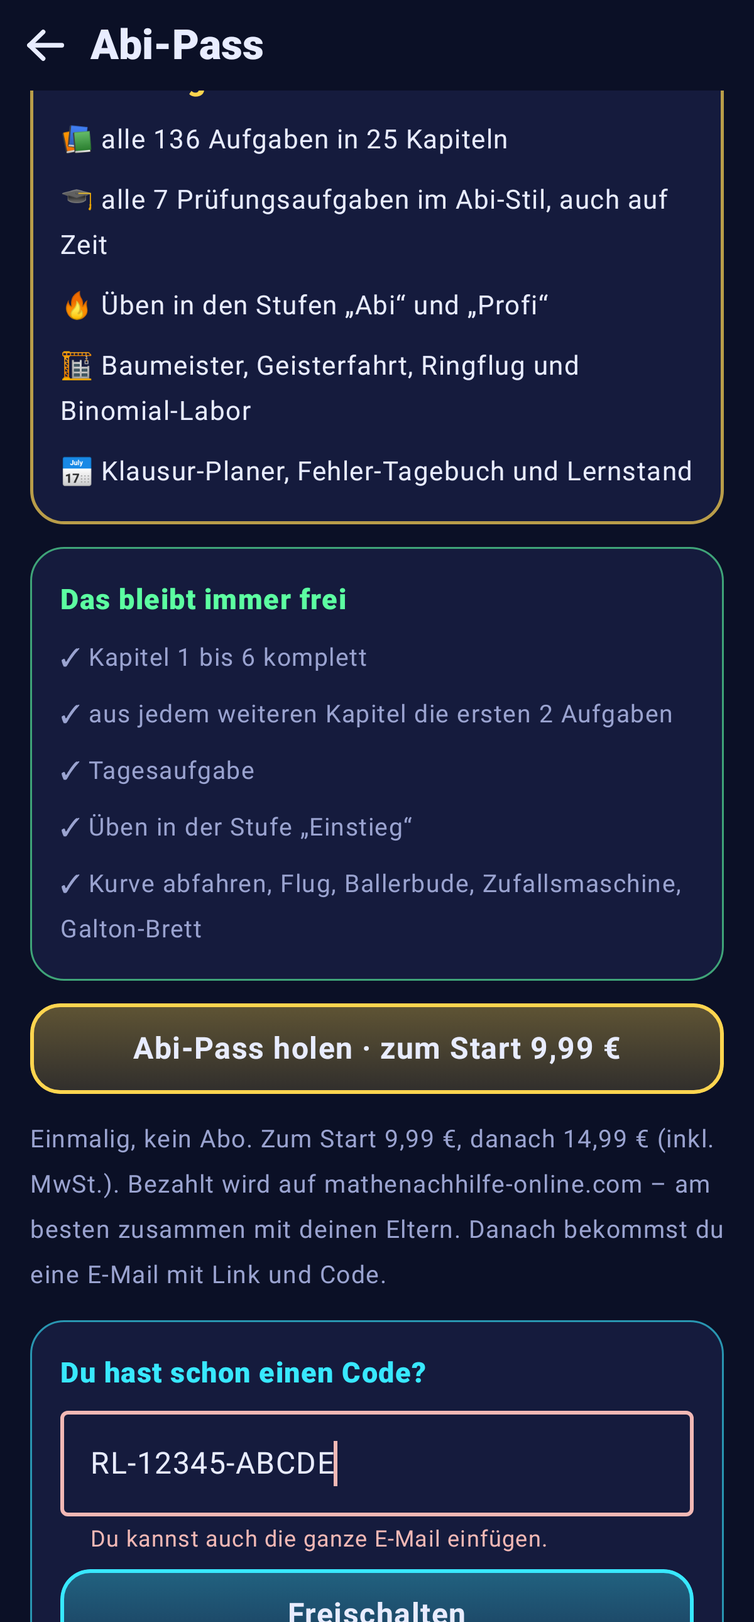
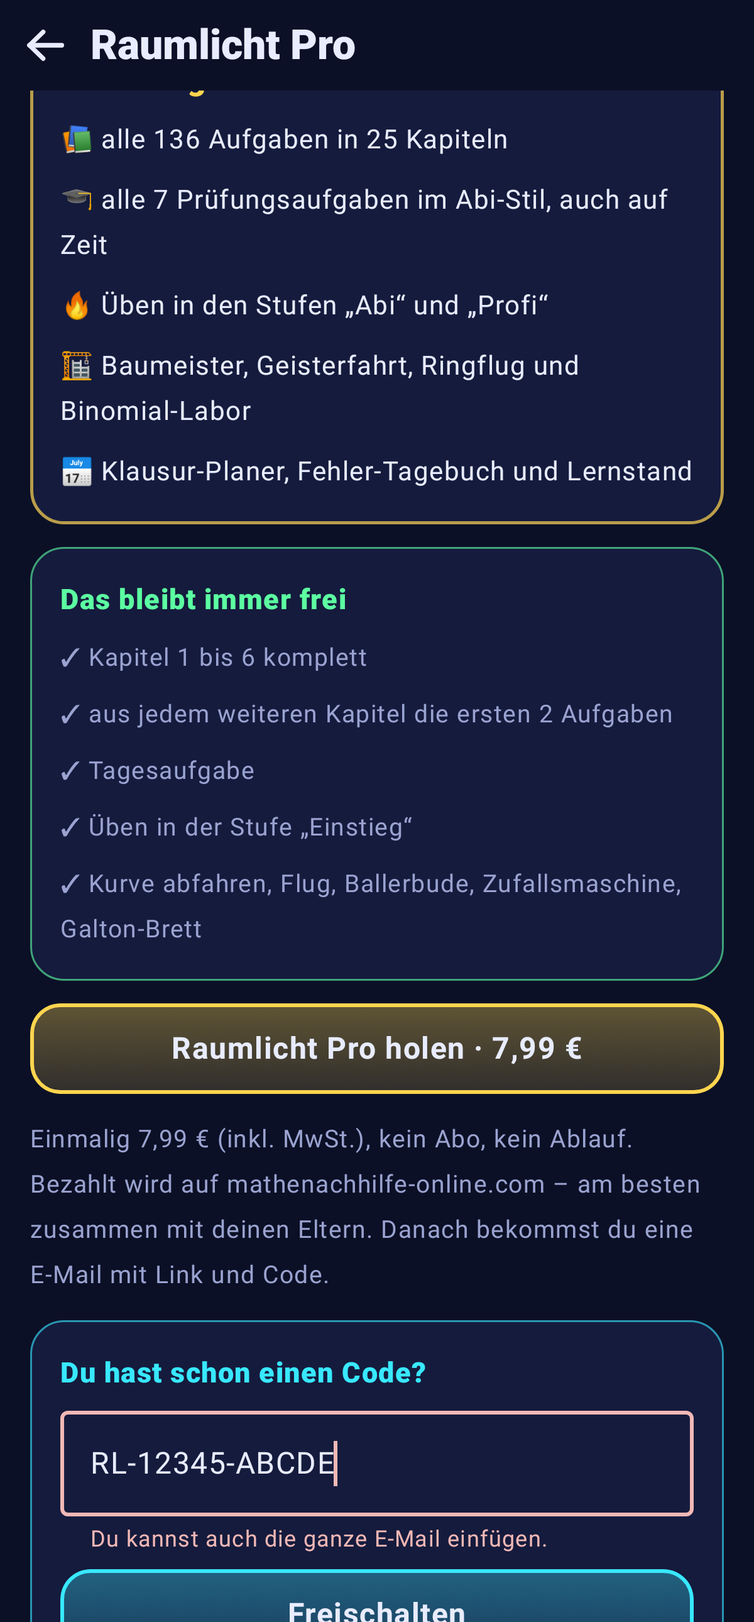
Raumlicht: Zwischenstand – Abi-Pass heißt jetzt Raumlicht Pro, Preis 7,99 € (noch ausgeschaltet, noch nicht ausgeliefert)
Claude-Session: https://claude.ai/code/session_015vg1TkCEYsXkAEYjbLFPi2

Changed region(s): [[0.0308, 0.6822, 0.9558, 0.8062], [0.185, 0.6202, 0.8325, 0.6512], [0.1233, 0.0, 0.4625, 0.062]]

diff --git a/raumlicht/shared/src/commonMain/kotlin/de/raumlicht/app/ui/settings/ProScreen.kt b/raumlicht/shared/src/commonMain/kotlin/de/raumlicht/app/ui/settings/ProScreen.kt
@@ -87,16 +87,16 @@ fun OfflineVoiceCard(o: OfflineVoice) {
     }
 }
 
-/** Abi-Pass in den Einstellungen: Ziel des Eintrags (null = kein Eintrag, solange der Abi-Pass nicht erhältlich ist) und ob er freigeschaltet ist */
+/** Raumlicht Pro in den Einstellungen: Ziel des Eintrags (null = kein Eintrag, solange Raumlicht Pro nicht erhältlich ist) und ob er freigeschaltet ist */
 val LocalProEntry = staticCompositionLocalOf<(() -> Unit)?> { null }
 val LocalProActive = staticCompositionLocalOf { false }
 
 /**
- * Seite zum Abi-Pass: freundlich, ohne Druck, mit klarer Liste, was dazugehört und was frei bleibt.
+ * Seite zu Raumlicht Pro: freundlich, ohne Druck, mit klarer Liste, was dazugehört und was frei bleibt.
  * Kaufen geht über die Kasse auf der Website ([offered]); freigeschaltet wird mit dem Code aus der E-Mail ([onCode]) – oder gleich über den Link darin.
  *
  * @param what was der Nutzer gerade öffnen wollte (null = über die Einstellungen oder den Freischalt-Link gekommen)
- * @param offered der Abi-Pass ist erhältlich (Kasse eingetragen)
+ * @param offered Raumlicht Pro ist erhältlich (Kasse eingetragen)
  * @param onCode prüft und speichert einen eingegebenen Code (auch mitten aus einer E-Mail kopiert); true = freigeschaltet
  */
 @Composable
@@ -108,22 +108,22 @@ fun ProScreen(what: String?, active: Boolean, offered: Boolean, onCode: (String)
     val pop = remember { Animatable(1f) }
     LaunchedEffect(active) { if (active) { pop.snapTo(0.6f); pop.animateTo(1f, spring(Spring.DampingRatioHighBouncy, Spring.StiffnessLow)) } }
     Column(Modifier.fillMaxSize().background(Q.Space).systemBarsPadding()) {
-        Bar("Abi-Pass", onBack)
+        Bar("Raumlicht Pro", onBack)
         Column(Modifier.fillMaxWidth().verticalScroll(rememberScrollState()).padding(horizontal = 16.dp, vertical = 8.dp), verticalArrangement = Arrangement.spacedBy(12.dp)) {
             Row(verticalAlignment = Alignment.CenterVertically) {
                 Lux(if (wrong && !active) LuxMood.SAD else LuxMood.HAPPY, size = 64.dp)
                 Text(when {
-                    active -> "Dein Abi-Pass ist freigeschaltet – alles gehört dir. Viel Erfolg! 🎉"
+                    active -> "Raumlicht Pro ist freigeschaltet – alles gehört dir. Viel Erfolg! 🎉"
                     wrong -> "Den Code erkenne ich nicht. Kopiere ihn am besten komplett aus der E-Mail – oder tippe einfach auf den Link darin."
-                    what != null -> "$what gehört zum Abi-Pass. Damit schaltest du alles frei – einmal, ohne Abo."
-                    offered -> "Mit dem Abi-Pass schaltest du alles frei – einmal, ohne Abo."
-                    else -> "Den Abi-Pass gibt es noch nicht – bis dahin ist alles frei."
+                    what != null -> "$what gehört zu Raumlicht Pro. Damit schaltest du alles frei – einmal, ohne Abo."
+                    offered -> "Mit Raumlicht Pro schaltest du alles frei – einmal, ohne Abo."
+                    else -> "Raumlicht Pro gibt es noch nicht – bis dahin ist alles frei."
                 }, Modifier.padding(start = 8.dp).testTag("pro-grund").background(Q.Panel, RoundedCornerShape(4.dp, 16.dp, 16.dp, 16.dp)).padding(12.dp), style = MaterialTheme.typography.bodyMedium)
             }
             if (active) Text("✓ Freigeschaltet", Modifier.fillMaxWidth().graphicsLayer { scaleX = pop.value; scaleY = pop.value }.testTag("pro-aktiv")
                 .background(Q.Green.copy(alpha = 0.18f), RoundedCornerShape(18.dp)).border(1.5.dp, Q.Green, RoundedCornerShape(18.dp)).padding(16.dp), color = Q.Green, fontWeight = FontWeight.Black, fontSize = 20.sp)
             Column(Modifier.fillMaxWidth().background(Q.Deep, RoundedCornerShape(18.dp)).border(1.5.dp, Q.Yellow.copy(alpha = 0.7f), RoundedCornerShape(18.dp)).padding(16.dp), verticalArrangement = Arrangement.spacedBy(8.dp)) {
-                Text(if (active) "Das hast du jetzt" else "Das bringt der Abi-Pass", color = Q.Yellow, fontWeight = FontWeight.Black, fontSize = 17.sp)
+                Text(if (active) "Das hast du jetzt" else "Das bringt Raumlicht Pro", color = Q.Yellow, fontWeight = FontWeight.Black, fontSize = 17.sp)
                 Pro.benefits.forEach { Text(it, color = Q.Text, fontSize = 14.sp) }
             }
             if (!active) {
@@ -132,10 +132,10 @@ fun ProScreen(what: String?, active: Boolean, offered: Boolean, onCode: (String)
                     Pro.free.forEach { Text("✓ $it", color = Q.Muted, fontSize = 13.sp) }
                 }
                 if (offered) {
-                    NeonButton({ runCatching { uri.openUri(Pro.CHECKOUT_URL) } }, Modifier.fillMaxWidth().testTag("pro-kaufen"), color = Q.Yellow) { Text("Abi-Pass holen · zum Start ${Pro.INTRO_PRICE}", fontWeight = FontWeight.Bold) }
-                    Text("Einmalig, kein Abo. Zum Start ${Pro.INTRO_PRICE}, danach ${Pro.PRICE} (inkl. MwSt.). Bezahlt wird auf mathenachhilfe-online.com – am besten zusammen mit deinen Eltern. " +
+                    NeonButton({ runCatching { uri.openUri(Pro.CHECKOUT_URL) } }, Modifier.fillMaxWidth().testTag("pro-kaufen"), color = Q.Yellow) { Text("Raumlicht Pro holen · ${Pro.PRICE}", fontWeight = FontWeight.Bold) }
+                    Text("Einmalig ${Pro.PRICE} (inkl. MwSt.), kein Abo, kein Ablauf. Bezahlt wird auf mathenachhilfe-online.com – am besten zusammen mit deinen Eltern. " +
                         "Danach bekommst du eine E-Mail mit Link und Code.", Modifier.testTag("pro-status"), color = Q.Muted, fontSize = 13.sp)
-                } else Text("Der Abi-Pass ist noch nicht erhältlich.", Modifier.testTag("pro-status"), color = Q.Muted, fontSize = 13.sp)
+                } else Text("Raumlicht Pro ist noch nicht erhältlich.", Modifier.testTag("pro-status"), color = Q.Muted, fontSize = 13.sp)
                 Column(Modifier.fillMaxWidth().background(Q.Deep, RoundedCornerShape(18.dp)).border(1.dp, Q.Cyan.copy(alpha = 0.6f), RoundedCornerShape(18.dp)).padding(16.dp), verticalArrangement = Arrangement.spacedBy(8.dp)) {
                     Text("Du hast schon einen Code?", color = Q.Cyan, fontWeight = FontWeight.Black, fontSize = 15.sp)
                     OutlinedTextField(input, { input = it; wrong = false }, Modifier.fillMaxWidth().testTag("pro-code"), placeholder = { Text("RL-…") }, isError = wrong, maxLines = 4,
@@ -151,7 +151,7 @@ fun ProScreen(what: String?, active: Boolean, offered: Boolean, onCode: (String)
 }
 
 /**
- * Abzeichen „Abi-Pass aktiv“ für den Kopf des Startbildschirms: nur sichtbar, wenn der Abi-Pass freigeschaltet ist. Antippen öffnet die Abi-Pass-Seite.
+ * Abzeichen „Raumlicht Pro aktiv“ für den Kopf des Startbildschirms: nur sichtbar, wenn Raumlicht Pro freigeschaltet ist. Antippen öffnet die Pro-Seite.
  * Ploppt beim Erscheinen auf und schimmert leise – man soll auf einen Blick sehen, dass alles offen ist.
  */
 @Composable
@@ -162,13 +162,13 @@ fun ProBadge(modifier: Modifier = Modifier) {
     LaunchedEffect(Unit) { pop.animateTo(1f, spring(Spring.DampingRatioMediumBouncy, Spring.StiffnessLow)) }
     val glow by androidx.compose.animation.core.rememberInfiniteTransition().animateFloat(0.55f, 1f,
         androidx.compose.animation.core.infiniteRepeatable(androidx.compose.animation.core.tween(1600), androidx.compose.animation.core.RepeatMode.Reverse))
-    Text("🎓 Abi-Pass aktiv", modifier.graphicsLayer { scaleX = pop.value; scaleY = pop.value }.testTag("pro-abzeichen")
+    Text("🎓 Pro aktiv", modifier.graphicsLayer { scaleX = pop.value; scaleY = pop.value }.testTag("pro-abzeichen")
         .background(Q.Green.copy(alpha = 0.2f), RoundedCornerShape(50)).border(1.5.dp, Q.Green.copy(alpha = glow), RoundedCornerShape(50))
         .then(if (open != null) Modifier.clip(RoundedCornerShape(50)).clickable(onClick = open) else Modifier).padding(horizontal = 10.dp, vertical = 4.dp),
         color = Q.Green, fontWeight = FontWeight.Black, fontSize = 13.sp, maxLines = 1)
 }
 
-/** Eintrag „Abi-Pass“ in den Einstellungen – sichtbar, wenn der Abi-Pass erhältlich oder schon freigeschaltet ist */
+/** Eintrag „Raumlicht Pro“ in den Einstellungen – sichtbar, wenn Raumlicht Pro erhältlich oder schon freigeschaltet ist */
 @Composable
 fun ProEntry() {
     val open = LocalProEntry.current ?: return; val active = LocalProActive.current
@@ -176,7 +176,7 @@ fun ProEntry() {
         .clickable(onClick = open).padding(16.dp), verticalAlignment = Alignment.CenterVertically) {
         Text("🎓", fontSize = 26.sp)
         Column(Modifier.padding(start = 12.dp).weight(1f)) {
-            Text(if (active) "Abi-Pass aktiv" else "Abi-Pass", color = if (active) Q.Green else Q.Yellow, fontWeight = FontWeight.Black, fontSize = 16.sp)
+            Text(if (active) "Raumlicht Pro aktiv" else "Raumlicht Pro", color = if (active) Q.Green else Q.Yellow, fontWeight = FontWeight.Black, fontSize = 16.sp)
             Text(if (active) "✓ Freigeschaltet – alles gehört dir" else "Alles freischalten oder Code eingeben", color = Q.Muted, fontSize = 13.sp)
         }
         Text("›", color = Q.Muted, fontSize = 22.sp)

diff --git a/raumlicht/app/src/test/java/de/raumlicht/app/ui/AppRootTest.kt b/raumlicht/app/src/test/java/de/raumlicht/app/ui/AppRootTest.kt
@@ -69,7 +69,7 @@ class AppRootTest {
         assertTrue(Routes.isAction("level/3-2") && Routes.isAction("jam/MIX") && Routes.isAction("abi/zelt/1") && !Routes.isAction(Routes.HOME) && !Routes.isAction(Routes.EXAMS) && !Routes.isAction(Routes.BACKSTAGE))
     }
 
-    /** Abi-Pass: eingeschaltet sperrt er genau die Pro-Teile und zeigt die Abi-Pass-Seite; ein gültiger Code öffnet alles, ein falscher nichts. */
+    /** Raumlicht Pro: eingeschaltet sperrt er genau die Pro-Teile und zeigt die Pro-Seite; ein gültiger Code öffnet alles, ein falscher nichts. */
     @Test fun proGate() {
         Settings(ApplicationProvider.getApplicationContext()).setProCode("")
         start(pro = true)
@@ -83,7 +83,7 @@ class AppRootTest {
         nav.go(Routes.BINOMIAL); settle(); rule.onNodeWithTag("pro-grund").assertTextContains("Binomial-Labor", substring = true); nav.back(); settle()
         org.robolectric.shadows.ShadowSystemClock.advanceBy(java.time.Duration.ofMillis(1000))
         nav.go(Routes.CHANCE); settle(); rule.onNodeWithTag("pro-grund").assertDoesNotExist(); nav.back(); settle()            // Zufallsmaschine bleibt frei
-        // über die Einstellungen zur Abi-Pass-Seite: Kauf-Knopf und Code-Eingabe
+        // über die Einstellungen zur Pro-Seite: Kauf-Knopf und Code-Eingabe
         org.robolectric.shadows.ShadowSystemClock.advanceBy(java.time.Duration.ofMillis(1000))
         rule.onNodeWithTag("pro-abzeichen").assertDoesNotExist()                                                               // noch kein Abzeichen
         nav.go(Routes.SETTINGS); settle(); rule.onNodeWithTag("pro-eintrag").assertTextContains("Alles freischalten", substring = true).performClick(); settle()
@@ -97,9 +97,9 @@ class AppRootTest {
         rule.onNodeWithTag("pro-freischalten").performScrollTo().performClick(); settle()
         rule.onNodeWithTag("pro-aktiv").assertExists(); rule.onNodeWithTag("pro-kaufen").assertDoesNotExist(); assertEquals(PASS, prefs.proCode.value)
         rule.onRoot().captureRoboImage("../screenshots/77_abi_pass_frei.png")
-        rule.onNodeWithTag("pro-zurueck").performScrollTo().performClick(); settle(); rule.onNodeWithTag("pro-eintrag").assertTextContains("Abi-Pass aktiv", substring = true)
-        // das Abzeichen im Kopf des Startbildschirms – Antippen führt zur Abi-Pass-Seite
-        org.robolectric.shadows.ShadowSystemClock.advanceBy(java.time.Duration.ofMillis(1000)); nav.back(); settle(); assertEquals(Routes.HOME, nav.top); rule.onNodeWithTag("pro-abzeichen").assertTextContains("Abi-Pass aktiv", substring = true)
+        rule.onNodeWithTag("pro-zurueck").performScrollTo().performClick(); settle(); rule.onNodeWithTag("pro-eintrag").assertTextContains("Raumlicht Pro aktiv", substring = true)
+        // das Abzeichen im Kopf des Startbildschirms – Antippen führt zur Pro-Seite
+        org.robolectric.shadows.ShadowSystemClock.advanceBy(java.time.Duration.ofMillis(1000)); nav.back(); settle(); assertEquals(Routes.HOME, nav.top); rule.onNodeWithTag("pro-abzeichen").assertTextContains("Pro aktiv", substring = true)
         rule.onRoot().captureRoboImage("../screenshots/79_abi_pass_abzeichen.png")
         org.robolectric.shadows.ShadowSystemClock.advanceBy(java.time.Duration.ofMillis(1000)); rule.onNodeWithTag("pro-abzeichen").performClick(); settle(); assertEquals(Routes.PRO, nav.top)
         org.robolectric.shadows.ShadowSystemClock.advanceBy(java.time.Duration.ofMillis(1000)); nav.back(); settle()

diff --git a/raumlicht/core/model/src/commonMain/kotlin/de/raumlicht/core/model/Pro.kt b/raumlicht/core/model/src/commonMain/kotlin/de/raumlicht/core/model/Pro.kt
@@ -1,22 +1,23 @@
 package de.raumlicht.core.model
 
 /**
- * Pro („Abi-Pass“): was frei bleibt und was dazugehört. Freigeschaltet wird mit einem Code von der Website ([License]) – ohne Konto, ohne Server.
- * **Gesperrt wird erst, wenn man den Abi-Pass auch kaufen kann**, also wenn die Kassen-Adresse eingetragen ist ([CHECKOUT_URL], [ENABLED]).
+ * Pro („Raumlicht Pro“): was frei bleibt und was dazugehört. Freigeschaltet wird mit einem Code von der Website ([License]) – ohne Konto, ohne Server.
+ * **Gesperrt wird erst, wenn man Raumlicht Pro auch kaufen kann**, also wenn die Kassen-Adresse eingetragen ist ([CHECKOUT_URL], [ENABLED]).
  * Bis dahin ist alles frei und nirgends ist von einem Kauf die Rede. Die Play-Fassung sperrt vorerst nie (dort wäre Google Play Billing Pflicht).
  */
 object Pro {
     /** Öffentlicher Ed25519-Schlüssel des Lizenz-Dienstes (64 Hex-Zeichen). Der geheime Schlüssel gehört nie ins Repo. */
[1 lines of base64/hex data omitted]
-    /** Kasse auf der Website. **Leer = Abi-Pass noch nicht erhältlich, nichts ist gesperrt.** Trägt der Leitstand ein, sobald das Produkt RL-ABIPASS angelegt ist –
+    /** Kasse auf der Website. **Leer = Raumlicht Pro noch nicht erhältlich, nichts ist gesperrt.** Trägt der Leitstand ein, sobald das Produkt RL-ABIPASS angelegt ist –
      *  im selben Schritt die Texte „keine Käufe“ in App, Store und Datenschutz ändern. */
     const val CHECKOUT_URL = ""
     /** Preise auf der Website (brutto, inkl. 19 % USt.) */
-    const val PRICE = "14,99 €"
-    const val INTRO_PRICE = "9,99 €"
+    const val PRICE = "7,99 €"
+    /** So heißt die Vollversion in allen Texten (gemeinsame Vorgabe für unsere Apps: Einmalkauf, kein Abo, kein Ablauf) */
+    const val NAME = "Raumlicht Pro"
     /** Hauptschalter: Sperren und Kauf-Hinweise gibt es nur, wenn die Kasse eingetragen ist */
     val ENABLED: Boolean get() = CHECKOUT_URL.isNotBlank() && PUBLIC_KEY.length == 64
-    /** Schaltet dieser Code den Abi-Pass frei? */
+    /** Schaltet dieser Code Raumlicht Pro frei? */
     fun active(code: String?, key: String = PUBLIC_KEY) = License.check(code, key) != null
     /** Die ersten Kapitel sind ganz frei … */
     const val FREE_CHAPTERS = 6
@@ -51,7 +52,7 @@ object Pro {
             "jam" -> JamLevel.entries.firstOrNull { it.name == p.getOrNull(2) }?.let { "Üben in der Stufe „${it.title}“" } ?: "Üben mit allen Stufen gemischt"
             else -> areas[p[0]] ?: "Dieser Bereich"
         } }
-    /** Was der Abi-Pass bringt (für die Hinweis-Seite) */
+    /** Was Raumlicht Pro bringt (für die Hinweis-Seite) */
     val benefits = listOf("📚 alle ${Levels.all.size} Aufgaben in ${Levels.chapters.size} Kapiteln", "🎓 alle ${Exams.all.size} Prüfungsaufgaben im Abi-Stil, auch auf Zeit",
         "🔥 Üben in den Stufen „Abi“ und „Profi“", "🏗 Baumeister, Geisterfahrt, Ringflug und Binomial-Labor", "📅 Klausur-Planer, Fehler-Tagebuch und Lernstand")
     /** Was auch ohne Pro bleibt */

diff --git a/raumlicht/shared/src/commonMain/kotlin/de/raumlicht/app/ui/settings/SettingsPage.kt b/raumlicht/shared/src/commonMain/kotlin/de/raumlicht/app/ui/settings/SettingsPage.kt
@@ -99,8 +99,8 @@ fun SettingsPage(
             ElevatedCard(Modifier.fillMaxWidth()) {
                 Column(Modifier.padding(16.dp), verticalArrangement = Arrangement.spacedBy(6.dp)) {
                     Text("Datenschutz & Inhalte", style = MaterialTheme.typography.titleMedium, color = MaterialTheme.colorScheme.primary)
-                    // Sobald es den Abi-Pass gibt, stimmt „keine Käufe“ nicht mehr
-                    Text(if (LocalProEntry.current == null) privacy else privacy.replace("keine Käufe", "kein Abo – nur der einmalige Abi-Pass, bezahlt auf unserer Website"), style = MaterialTheme.typography.bodySmall)
+                    // Sobald es Raumlicht Pro gibt, stimmt „keine Käufe“ nicht mehr
+                    Text(if (LocalProEntry.current == null) privacy else privacy.replace("keine Käufe", "kein Abo – nur der einmalige Kauf von Raumlicht Pro, bezahlt auf unserer Website"), style = MaterialTheme.typography.bodySmall)
                     Text("Inhalte: Mathematik der Oberstufe. Analytische Geometrie – Punkte und Vektoren im Raum, Geraden in Parameterform, " +
                         "Lagebeziehungen, Ebenen in Koordinatenform, Durchstoßpunkte, Normalenvektor, Skalarprodukt, Lotfußpunkt, " +
                         "Abstände, Spiegelung, Winkel, Kugeln, Kreuzprodukt mit Flächen und Volumen, Bewegungsaufgaben; dazu Analysis (Funktionen, Ableitung, Kurvendiskussion, Integral, Rotationskörper) und Stochastik (Laplace, Pfadregel, Vierfeldertafel, Binomialverteilung). Jedes Kapitel endet mit einer Aufgabe im Abitur-Stil.", style = MaterialTheme.typography.bodySmall)

diff --git a/raumlicht/core/model/src/commonMain/kotlin/de/raumlicht/core/model/License.kt b/raumlicht/core/model/src/commonMain/kotlin/de/raumlicht/core/model/License.kt
@@ -1,9 +1,9 @@
 package de.raumlicht.core.model
 
 /**
- * Freischalt-Codes für den Abi-Pass: ohne Konto und ohne Server prüfbar (gleiches Verfahren wie bei KurvenFlug).
+ * Freischalt-Codes für Raumlicht Pro: ohne Konto und ohne Server prüfbar (gleiches Verfahren wie bei KurvenFlug).
  *
- * Inhalt (9 Byte): Version 1 · App (4 = Raumlicht) · Produkt (1 = Abi-Pass) · laufende Nummer (4 Byte) · Tag der Ausstellung (2 Byte, Tage seit 1.1.2020).
+ * Inhalt (9 Byte): Version 1 · App (4 = Raumlicht) · Produkt (1 = Raumlicht Pro) · laufende Nummer (4 Byte) · Tag der Ausstellung (2 Byte, Tage seit 1.1.2020).
  * Dahinter 64 Byte Ed25519-Signatur des Lizenz-Dienstes. Alles zusammen in Crockford-Base32, z. B. „RL-1AB2C-…“.
  * Den geheimen Schlüssel hat nur der Lizenz-Dienst; die App kennt nur den öffentlichen ([Pro.PUBLIC_KEY]).
  */
@@ -59,7 +59,7 @@ object License {
     private fun hex(s: String): ByteArray? = s.trim().takeIf { it.length % 2 == 0 && it.all { c -> c.isDigit() || c.lowercaseChar() in 'a'..'f' } }
         ?.chunked(2)?.map { it.toInt(16).toByte() }?.toByteArray()
 
-    /** Gültiger Abi-Pass-Code für Raumlicht? Sonst null. */
+    /** Gültiger Pro-Code für Raumlicht? Sonst null. */
     fun check(code: String?, publicKeyHex: String): Info? {
         if (code.isNullOrBlank()) return null
         val pk = hex(publicKeyHex)?.takeIf { it.size == 32 } ?: return null

diff --git a/raumlicht/shared/src/commonMain/kotlin/de/raumlicht/app/ui/AppRoot.kt b/raumlicht/shared/src/commonMain/kotlin/de/raumlicht/app/ui/AppRoot.kt
@@ -22,7 +22,7 @@ import kotlinx.coroutines.flow.StateFlow
 object Routes {
     const val HOME = "start"
     const val SETTINGS = "einstellungen"
-    const val PRO = "abi-pass"
+    const val PRO = "pro"
     const val DAILY = "tagesaufgabe"
     const val JAM_HOME = "jam"
     const val SHEET = "spickzettel"
@@ -91,7 +91,7 @@ fun AppRoot(
     nav: Navigator, prefs: Prefs, stars: StateFlow<Map<String, Int>>, record: (levelId: String, stars: Int, attempts: Int) -> Unit, today: () -> Long,
     settings: @Composable (onBack: () -> Unit) -> Unit,
     updateVersion: String? = null, onRoute: (String) -> Unit = {}, onPlanChanged: () -> Unit = {},
-    /** Abi-Pass erhältlich und Pro-Teile gesperrt? Erst wenn die Kasse eingetragen ist ([Pro.ENABLED]); die Play-Fassung schaltet es aus, Tests schalten es ein. */
+    /** Raumlicht Pro erhältlich und Pro-Teile gesperrt? Erst wenn die Kasse eingetragen ist ([Pro.ENABLED]); die Play-Fassung schaltet es aus, Tests schalten es ein. */
     proEnabled: Boolean = Pro.ENABLED,
     /** Öffentlicher Schlüssel zum Prüfen der Freischalt-Codes (Tests nehmen einen eigenen) */
     proKey: String = Pro.PUBLIC_KEY,

diff --git a/raumlicht/app/src/main/java/de/raumlicht/app/MainActivity.kt b/raumlicht/app/src/main/java/de/raumlicht/app/MainActivity.kt
@@ -98,7 +98,7 @@ class MainActivity : ComponentActivity() {
         LaunchedEffect(wanted) { wanted?.let { r -> nav.restart(r); openRoute.value = null } }
         AppRoot(nav, vm.settings, vm.stars, vm::record, vm::today,
             updateVersion = update?.version,
-            // Abi-Pass über die Website gibt es nur in der GitHub-Fassung; im Play Store wäre Google Play Billing Pflicht – dort bleibt vorerst alles frei
+            // Raumlicht Pro über die Website gibt es nur in der GitHub-Fassung; im Play Store wäre Google Play Billing Pflicht – dort bleibt vorerst alles frei
             proEnabled = de.raumlicht.core.model.Pro.ENABLED && BuildConfig.SELF_UPDATE,
             // Musik passt sich an: ruhig im Menü, bewegter beim Rechnen – und aus in Prüfungen auf Zeit und im Pflichtteil
             onRoute = { route -> (application as RaumlichtApp).music.let { it.setSilent(Routes.isExam(route)); it.setMood(if (Routes.isAction(route)) MusicMood.FLIGHT else MusicMood.MENU) } },

diff --git a/raumlicht/web/src/wasmJsMain/kotlin/de/raumlicht/web/Main.kt b/raumlicht/web/src/wasmJsMain/kotlin/de/raumlicht/web/Main.kt
@@ -63,7 +63,7 @@ private fun WebApp() {
     LaunchedEffect(Unit) { note("Oberfläche gestartet") }
     // Direkt-Link auf einen Bildschirm („?ziel=binomial“) – für Lesezeichen und für die automatische Prüfung jedes Bildschirms; unbekannte Ziele führen zur Startseite
     LaunchedEffect(Unit) { takeParam("ziel")?.takeIf { it.isNotBlank() && it.length < 60 }?.let { nav.restart(it) } }
-    // Freischalt-Link aus der E-Mail: Code prüfen, merken und die Abi-Pass-Seite zeigen (bei einem falschen Code steht dort die Eingabe bereit)
+    // Freischalt-Link aus der E-Mail: Code prüfen, merken und die Pro-Seite zeigen (bei einem falschen Code steht dort die Eingabe bereit)
     LaunchedEffect(Unit) { takeProParam()?.let { raw ->
         val code = de.raumlicht.core.model.License.extract("RL$raw") ?: de.raumlicht.core.model.License.extract(raw)
         if (de.raumlicht.core.model.Pro.active(code)) prefs.setProCode(code!!)

diff --git a/raumlicht/core/model/src/jvmTest/kotlin/de/raumlicht/core/model/SpeechTest.kt b/raumlicht/core/model/src/jvmTest/kotlin/de/raumlicht/core/model/SpeechTest.kt
@@ -109,7 +109,7 @@ class SpeechTest {
         says("d gleich Betrag von minus 1 minus 5, geteilt durch 3, gleich 2", "d = |-1 − 5| : 3 = 2")
         says("f Strich von minus 2 gleich minus 0,41. Am Tiefpunkt ist die Steigung 0.", "f′(-2) = −0,41. Am Tiefpunkt ist die Steigung 0.")
         says("Beim Spiegeln an der x1x3-Ebene wechselt nur x2 das Vorzeichen.", "Beim Spiegeln an der x₁x₃-Ebene wechselt nur x₂ das Vorzeichen.")
-        says("Zweimal ableiten, Produkt- und Kettenregel", "Zweimal ableiten (Produkt- und Kettenregel)"); says("Abi-Pass", "Abi-Pass")
+        says("Zweimal ableiten, Produkt- und Kettenregel", "Zweimal ableiten (Produkt- und Kettenregel)"); says("Raumlicht Pro", "Raumlicht Pro")
     }
 
     /** A10: Häkchen, Kreuzchen, parallel und senkrecht – die Aussage kippt nicht. */

diff --git a/raumlicht/shared/src/commonMain/kotlin/de/raumlicht/app/ui/home/Extras.kt b/raumlicht/shared/src/commonMain/kotlin/de/raumlicht/app/ui/home/Extras.kt
@@ -55,7 +55,7 @@ private fun TopBar(title: String, onBack: () -> Unit) {
 @Composable
 fun JamPicker(best: Int, onTopic: (JamTopic) -> Unit, onBack: () -> Unit, startLevel: String = "", onLevel: (String) -> Unit = {},
               onPick: (JamTopic, JamLevel?) -> Unit = { t, _ -> onTopic(t) },
-              /** Stufen, die zum Abi-Pass gehören und noch gesperrt sind (zeigen ein Schloss) */
+              /** Stufen, die zu Raumlicht Pro gehören und noch gesperrt sind (zeigen ein Schloss) */
               lockedLevel: (JamLevel?) -> Boolean = { false }) {
     // Schwierigkeit: „Alle“ mischt wie bisher; sonst kommen nur Aufgaben der gewählten Stufe (jede nachweislich schwerer als die vorige)
     var levelName by rememberSaveable { mutableStateOf(startLevel) }

diff --git a/raumlicht/core/model/src/jvmTest/kotlin/de/raumlicht/core/model/ProTest.kt b/raumlicht/core/model/src/jvmTest/kotlin/de/raumlicht/core/model/ProTest.kt
@@ -3,7 +3,7 @@ package de.raumlicht.core.model
 import org.junit.Assert.*
 import org.junit.Test
 
-/** Regeln für den Abi-Pass: Was frei bleibt, was dazugehört – und dass im Auslieferungsstand nichts gesperrt ist. */
+/** Regeln für Raumlicht Pro: Was frei bleibt, was dazugehört – und dass im Auslieferungsstand nichts gesperrt ist. */
 class ProTest {
     /** Solange keine Kasse eingetragen ist, ist nichts gesperrt. Wer die Kasse einträgt, muss im selben Schritt die Texte „keine Käufe“ ändern – dann diesen Test anpassen. */
     @Test fun ohneKasseIstAllesFrei() { assertEquals("", Pro.CHECKOUT_URL); assertFalse(Pro.ENABLED); assertEquals(64, Pro.PUBLIC_KEY.length) }

diff --git a/raumlicht/shared/src/commonMain/kotlin/de/raumlicht/app/ui/home/HomeScreen.kt b/raumlicht/shared/src/commonMain/kotlin/de/raumlicht/app/ui/home/HomeScreen.kt
@@ -60,7 +60,7 @@ fun HomeScreen(
     dailyDone: Boolean = false, jamBest: Int = 0,
     onDaily: () -> Unit = {}, onJam: () -> Unit = {}, onExam: () -> Unit = {}, onMore: () -> Unit = {},
     controller: StageController = remember { StageController() },
-    /** Aufgaben, die zum Abi-Pass gehören und noch gesperrt sind (zeigen ein Schloss) */
+    /** Aufgaben, die zu Raumlicht Pro gehören und noch gesperrt sind (zeigen ein Schloss) */
     locked: (String) -> Boolean = { false },
 ) {
     val total = chapters.sumOf { c -> c.levels.sumOf { stars[it.id] ?: 0 } }; val max = chapters.sumOf { it.levels.size } * 3
